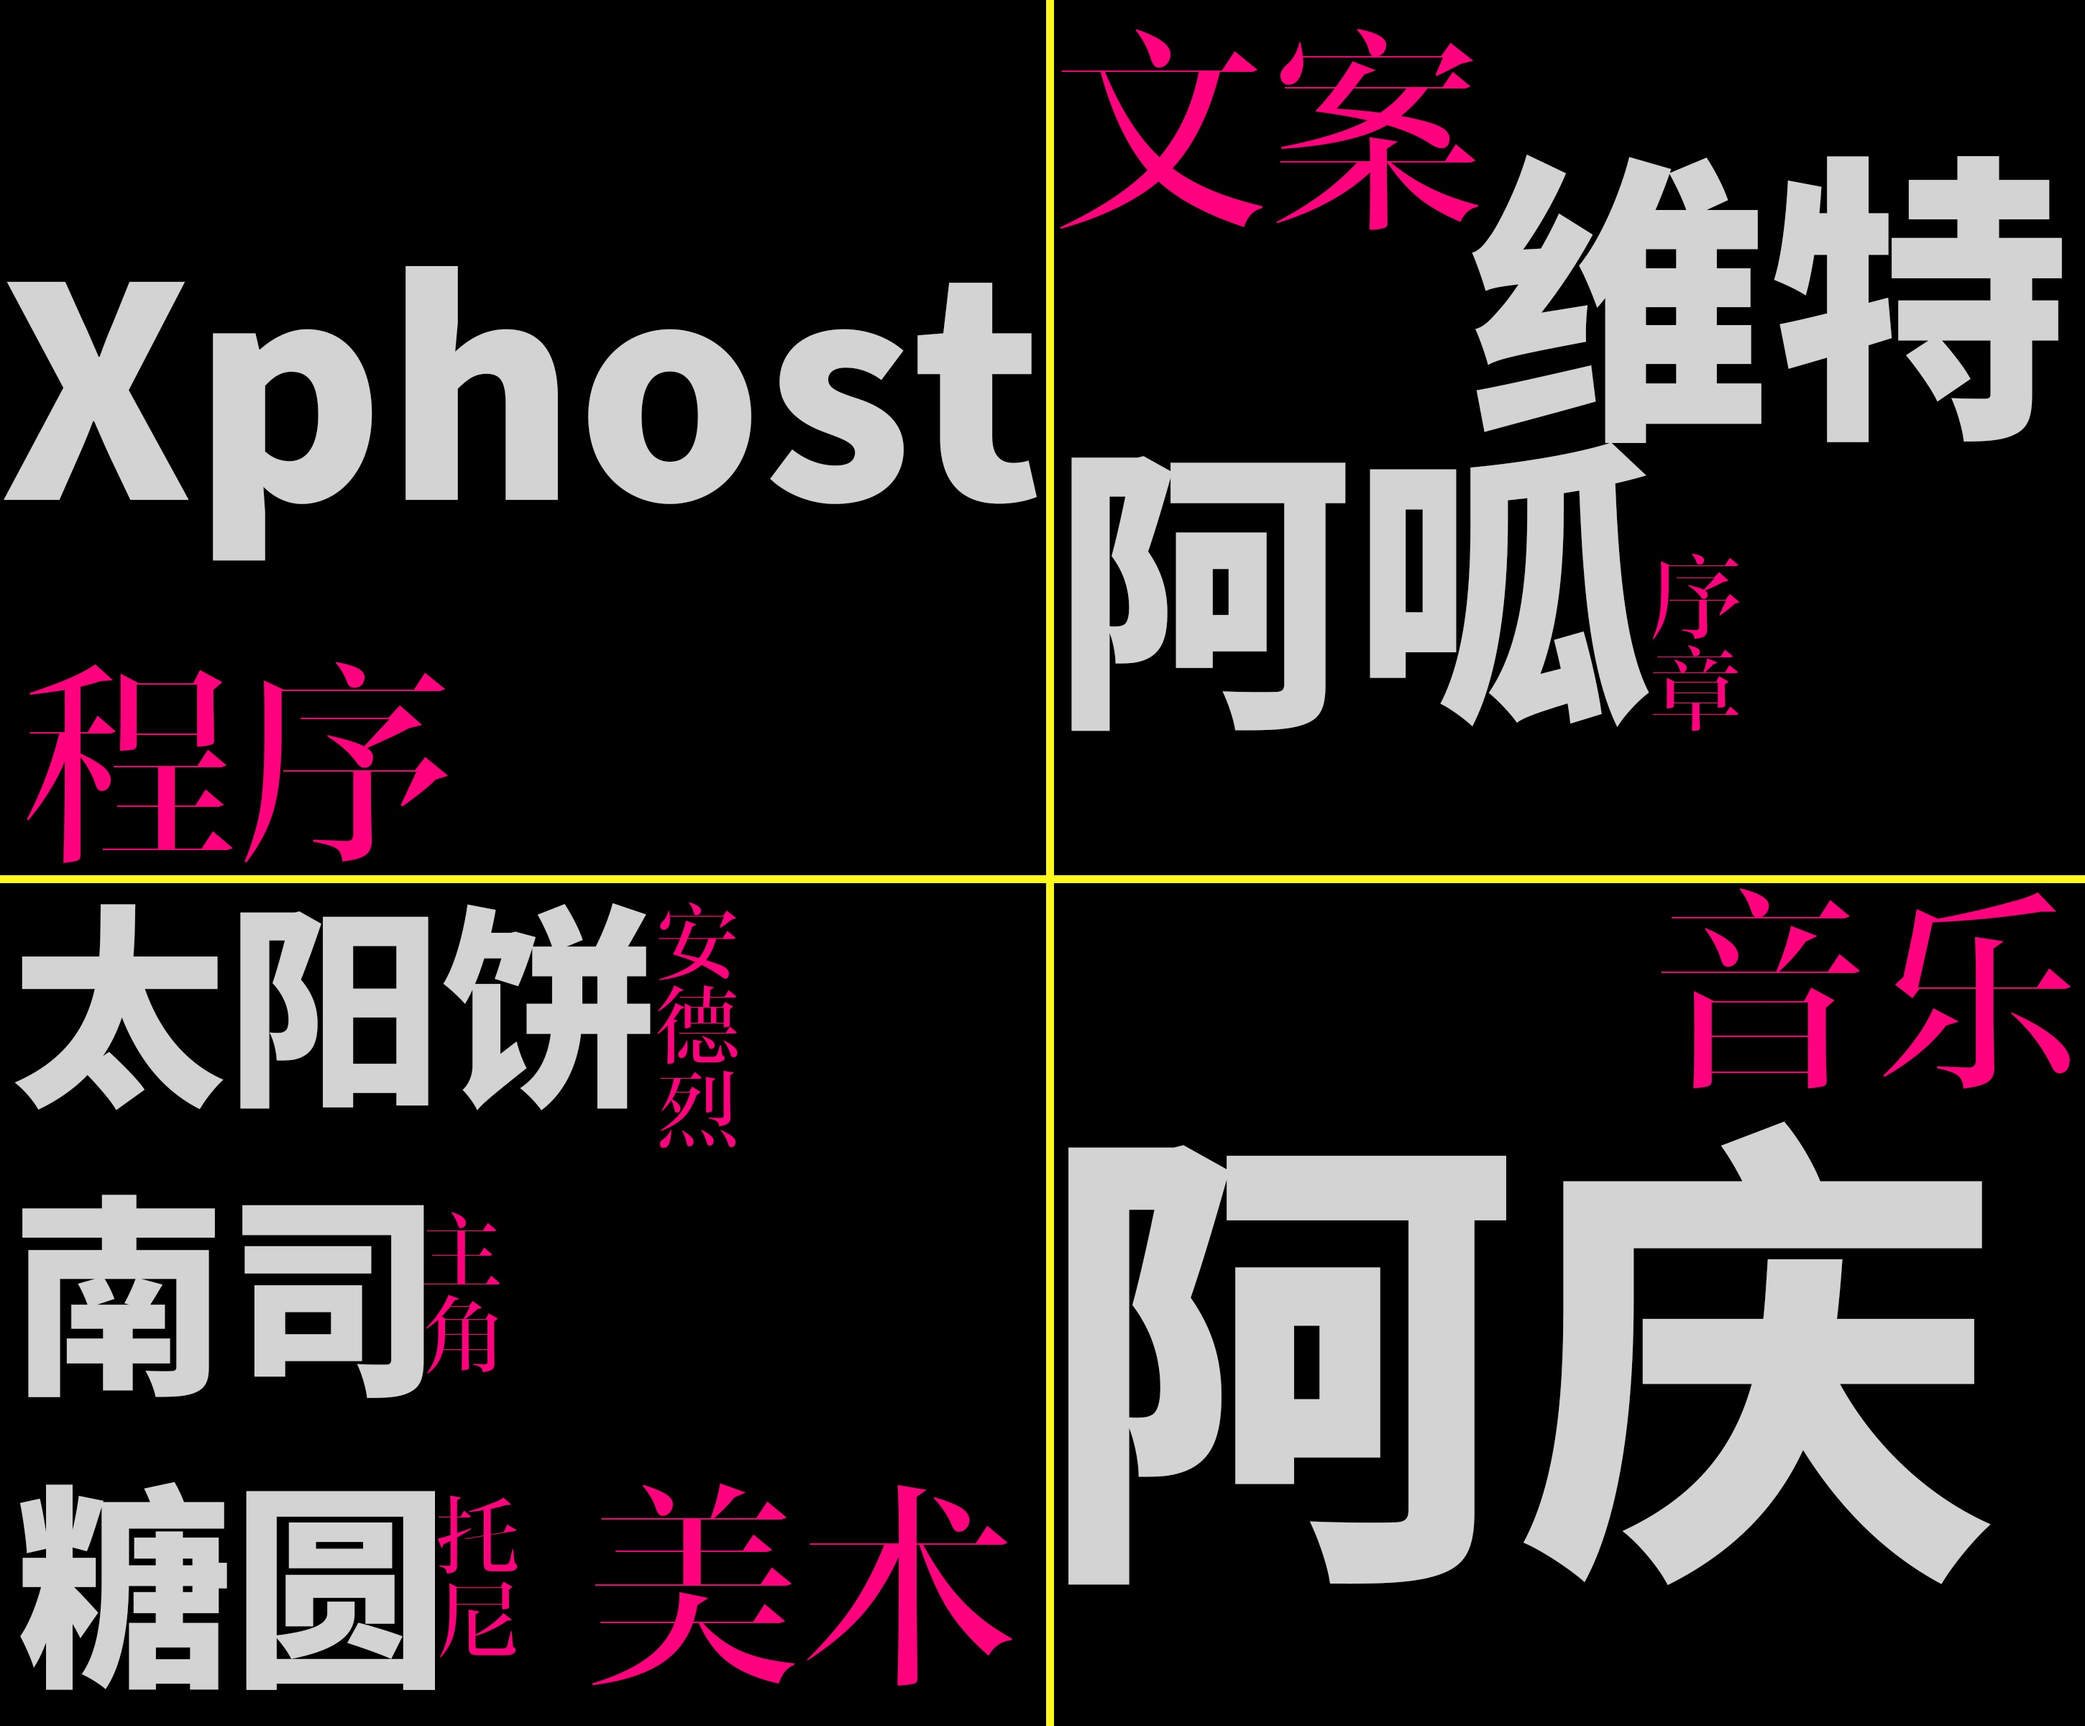
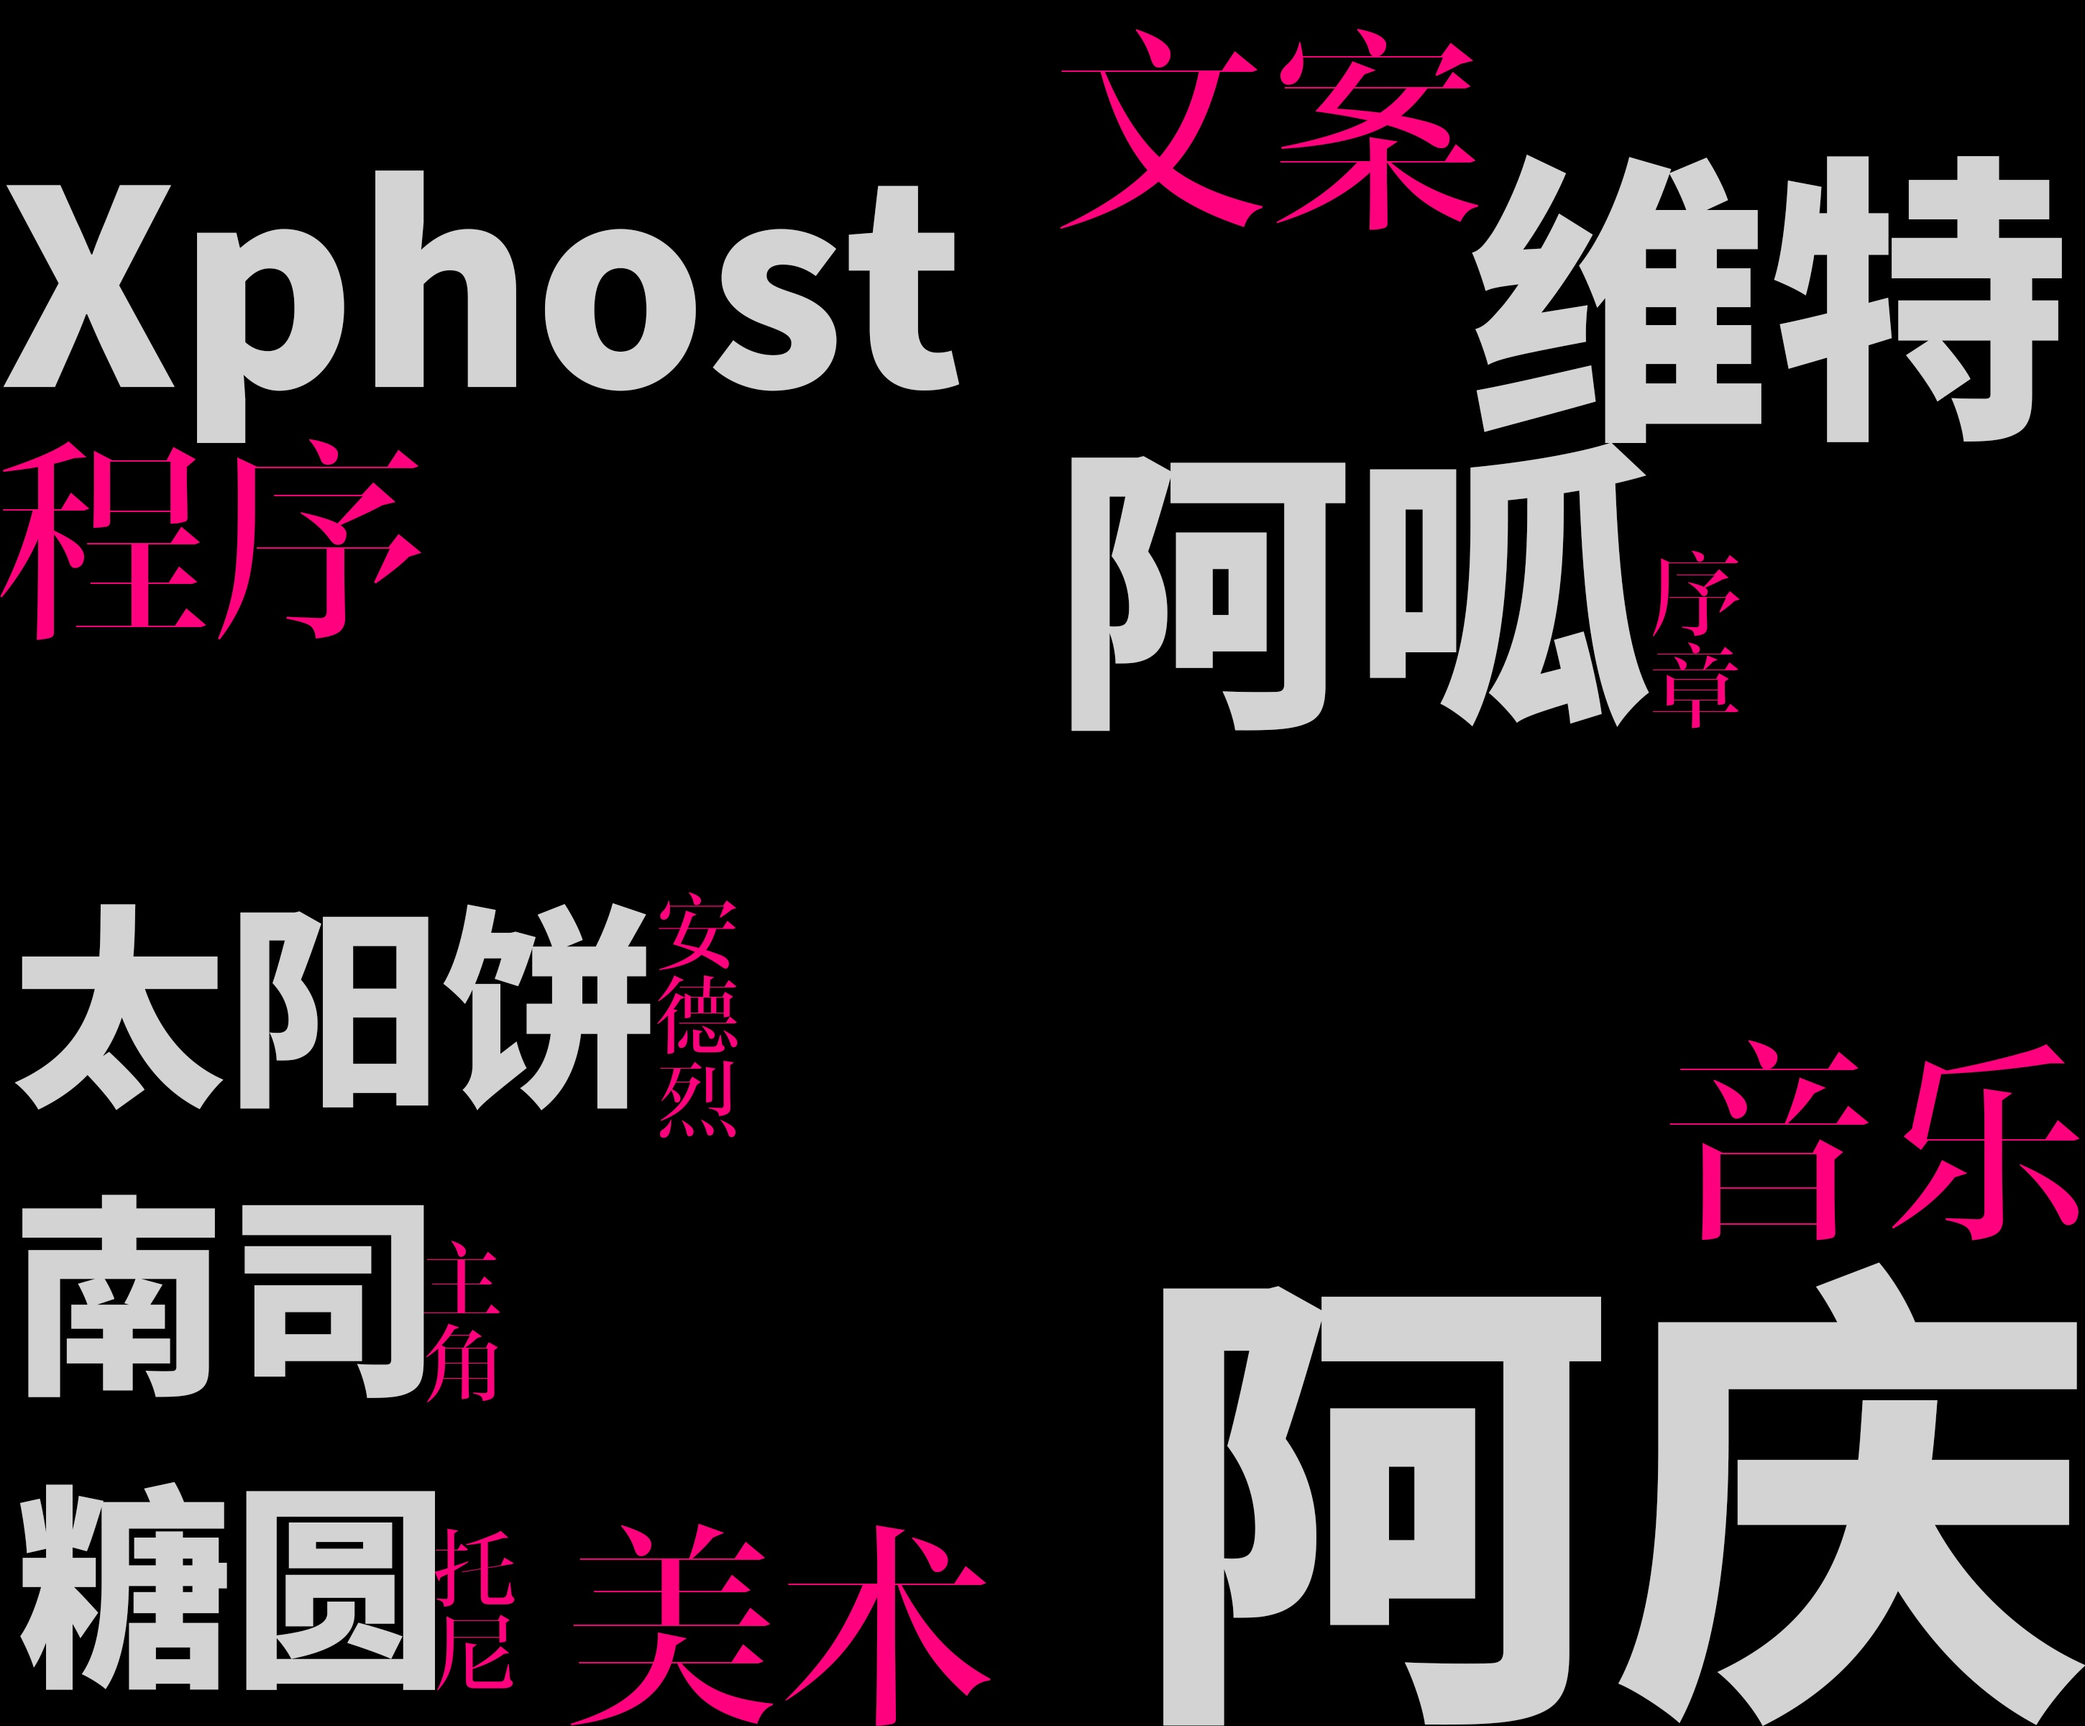
紧急修复了一个该死的巨大 bug，快进后存档无法读取！！

diff --git a/src/routes/saves/+page.svelte b/src/routes/saves/+page.svelte
@@ -853,7 +853,7 @@
                 showMainScreen = false;
                 await sleep(500);
                 chapterNum = gd(n).to;
-                setSaveInfo("saved", gd(n).to);
+                setSaveInfo("saved", chapterNum);
                 showChapter = true;
                 await sleep(5000);
                 historyFile = [];
